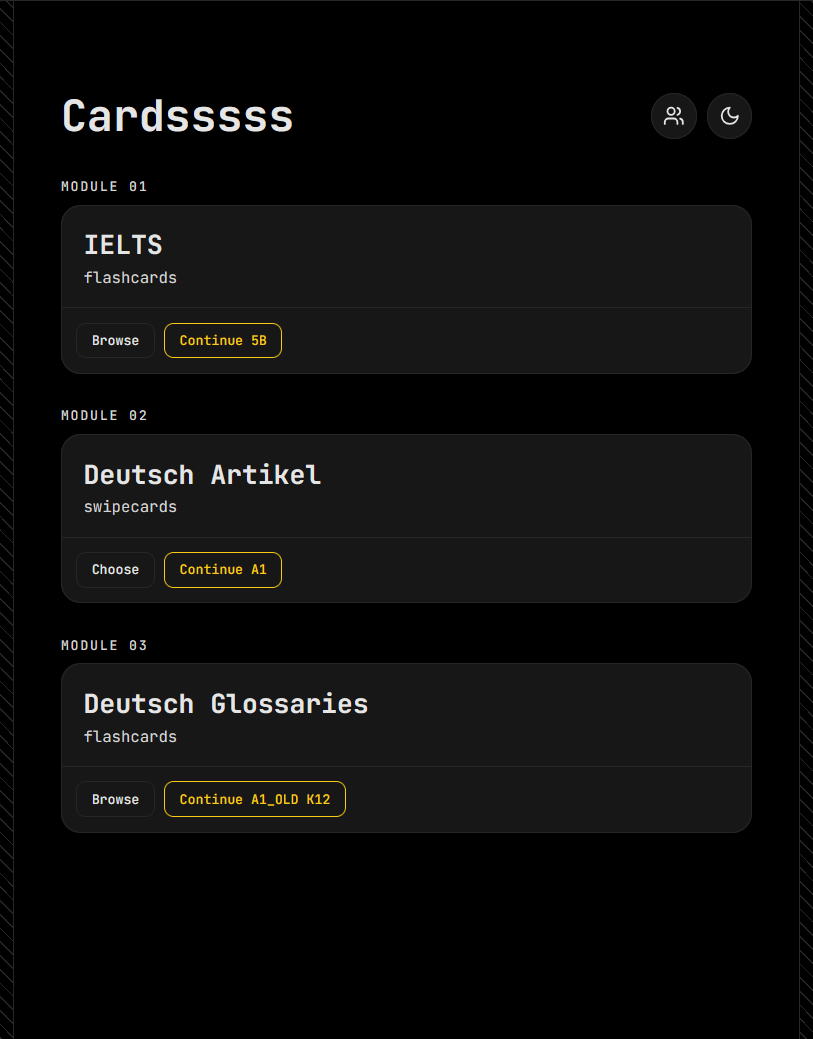
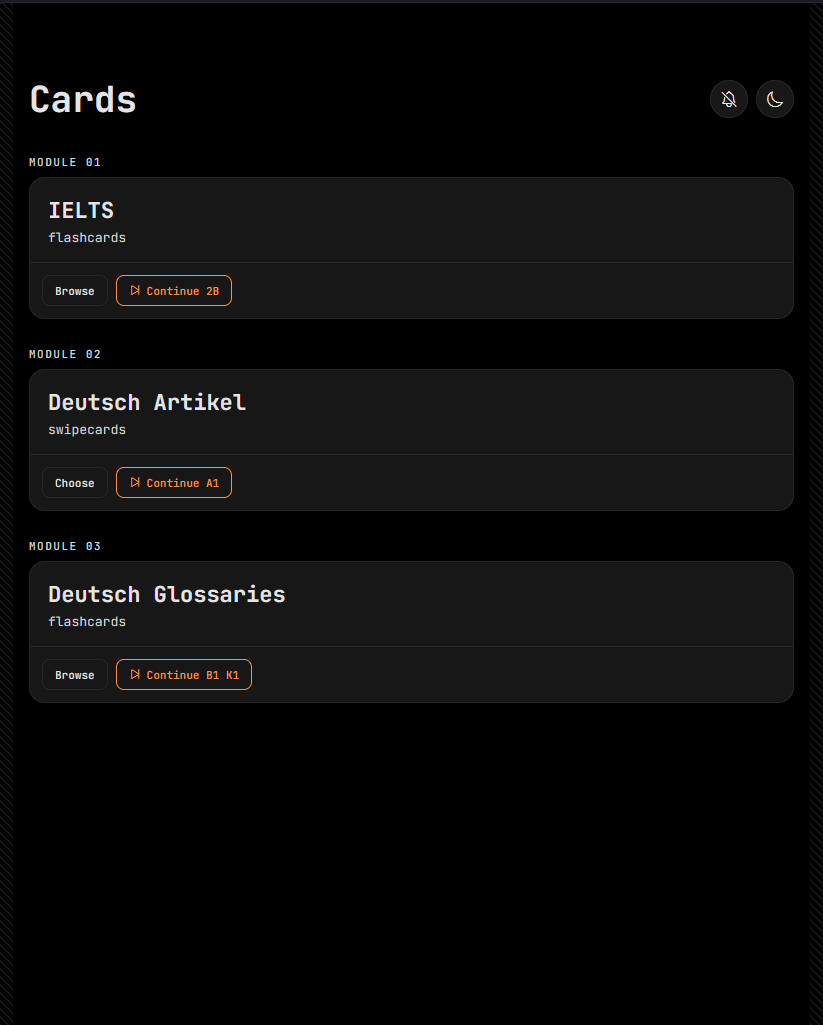
1.0.3

diff --git a/components/FlashCard.tsx b/components/FlashCard.tsx
@@ -1,11 +1,13 @@
 import React, { useEffect } from "react";
-import { View, Text, StyleSheet, Pressable, ScrollView } from "react-native";
+import { View, Text, StyleSheet } from "react-native";
+import { Gesture, GestureDetector, ScrollView } from "react-native-gesture-handler";
 import Animated, {
   useSharedValue,
   useAnimatedStyle,
   withTiming,
   interpolate,
   Extrapolation,
+  runOnJS,
 } from "react-native-reanimated";
 import { useTheme } from "../theme/ThemeContext";
 import { FONTS, FONT_SIZES } from "../theme/typography";
@@ -42,8 +44,15 @@ export function FlashCard({ word, flipped, onPress }: FlashCardProps): React.JSX
     };
   });
 
+  const tapGesture = Gesture.Tap().onEnd((_event, success) => {
+    if (success) {
+      runOnJS(onPress)();
+    }
+  });
+
   return (
-    <Pressable onPress={onPress} style={styles.wrapper}>
+    <GestureDetector gesture={tapGesture}>
+    <Animated.View style={styles.wrapper}>
       <Animated.View
         style={[
           styles.face,
@@ -86,7 +95,8 @@ export function FlashCard({ word, flipped, onPress }: FlashCardProps): React.JSX
           )}
         </ScrollView>
       </Animated.View>
-    </Pressable>
+    </Animated.View>
+    </GestureDetector>
   );
 }
 

diff --git a/components/SpeakingCard.tsx b/components/SpeakingCard.tsx
@@ -1,11 +1,13 @@
 import React, { useEffect } from "react";
-import { View, Text, StyleSheet, Pressable, ScrollView } from "react-native";
+import { View, Text, StyleSheet } from "react-native";
+import { Gesture, GestureDetector, ScrollView } from "react-native-gesture-handler";
 import Animated, {
   useSharedValue,
   useAnimatedStyle,
   withTiming,
   interpolate,
   Extrapolation,
+  runOnJS,
 } from "react-native-reanimated";
 import { useTheme } from "../theme/ThemeContext";
 import { FONTS, FONT_SIZES } from "../theme/typography";
@@ -49,8 +51,15 @@ export function SpeakingCard({ item, flipped, onPress }: SpeakingCardProps): Rea
     };
   });
 
+  const tapGesture = Gesture.Tap().onEnd((_event, success) => {
+    if (success) {
+      runOnJS(onPress)();
+    }
+  });
+
   return (
-    <Pressable onPress={onPress} style={styles.wrapper}>
+    <GestureDetector gesture={tapGesture}>
+    <Animated.View style={styles.wrapper}>
       <Animated.View
         style={[
           styles.face,
@@ -96,7 +105,8 @@ export function SpeakingCard({ item, flipped, onPress }: SpeakingCardProps): Rea
           <Text style={[styles.answer, { color: colors.text }]}>{item.answer}</Text>
         </ScrollView>
       </Animated.View>
-    </Pressable>
+    </Animated.View>
+    </GestureDetector>
   );
 }
 